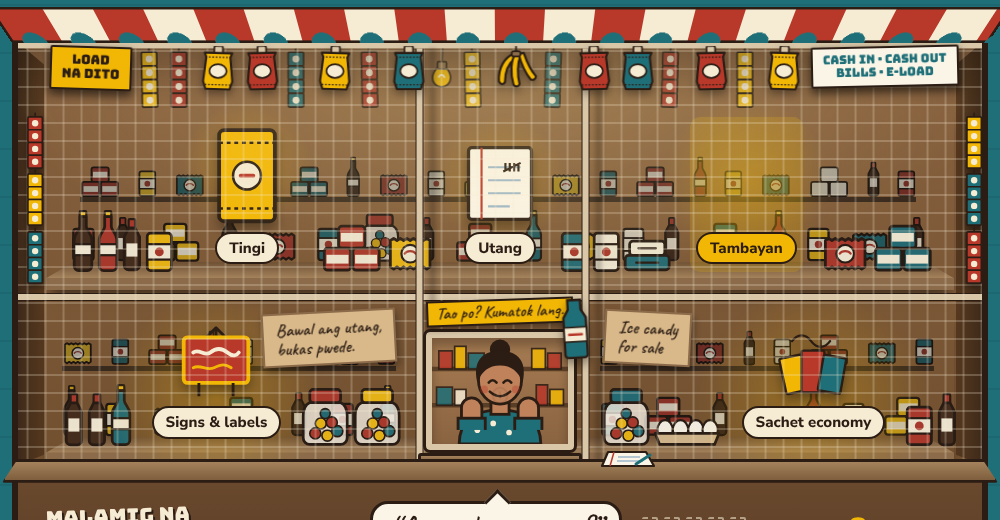
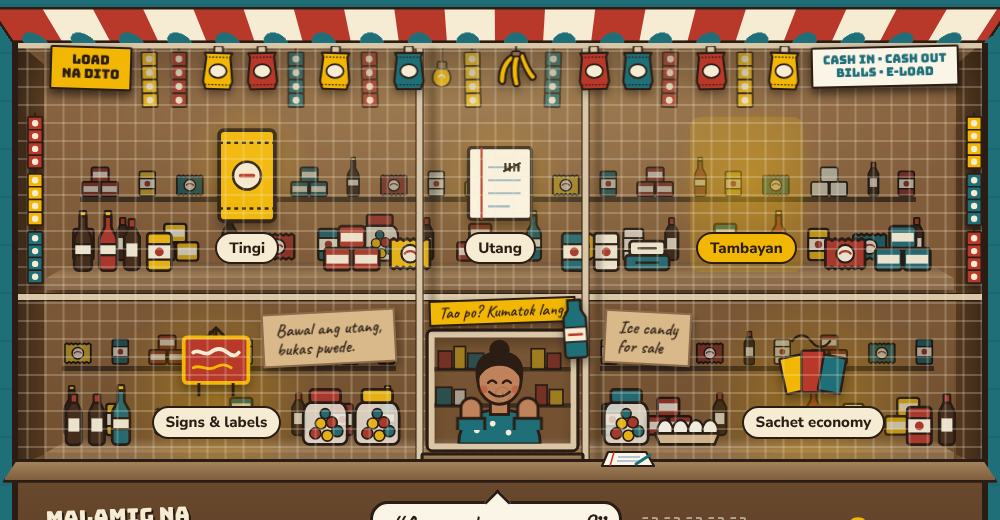
Make the window part of the store and reverse the purchase on close
- The pass-through window is now a real opening cut into the wire grid: it has no background of its own, so the store's back wall and light show through it
- Its frame moves with the grill as the pointer moves, while the tindera stays inside with the shelves, so you see past the frame instead of a flat picture
- Closing a story reverses the purchase: the page shrinks back into the window and the product travels from the tindera to its shelf, not from the corner of the story page
- Version tag on stylesheet and script links bumped

Changed region(s): [[0.403, 0.5538, 0.589, 0.8923]]

diff --git a/index.html b/index.html
@@ -8,8 +8,8 @@
 <link rel="preconnect" href="https://fonts.googleapis.com">
 <link rel="preconnect" href="https://fonts.gstatic.com" crossorigin>
 <link href="https://fonts.googleapis.com/css2?family=Bungee&family=Caveat:wght@600;700&family=Nunito+Sans:wght@400;600;700;800&display=swap" rel="stylesheet">
-<link rel="stylesheet" href="assets/css/style.css?v=202611152">
-<script src="assets/js/site.js?v=202611152"></script>
+<link rel="stylesheet" href="assets/css/style.css?v=202611153">
+<script src="assets/js/site.js?v=202611153"></script>
 <script>
   // First visit this session: keep the store shuttered until main.js lifts it.
   try {
@@ -241,22 +241,24 @@
         <div class="hatch" aria-hidden="true">
           <span class="hatch-note" lang="fil">Tao po? Kumatok lang.</span>
           <div class="hatch-hole">
-            <svg class="hatch-tindera" viewBox="0 0 120 96" width="120" height="96" aria-hidden="true">
-              <path d="M0 30h120M0 62h120" stroke="#5A3D25" stroke-width="4"/>
-              <g stroke="#2B1D14" stroke-width="1.5" opacity=".85"><rect x="6" y="14" width="12" height="16" fill="#B8382A"/><rect x="20" y="10" width="10" height="20" fill="#F2B705"/><rect x="32" y="16" width="14" height="14" fill="#1F6F78"/><rect x="88" y="12" width="12" height="18" fill="#F2B705"/><rect x="102" y="16" width="12" height="14" fill="#B8382A"/><rect x="4" y="46" width="14" height="16" fill="#1F6F78"/><rect x="20" y="48" width="10" height="14" fill="#F6EBD3"/><rect x="92" y="44" width="10" height="18" fill="#B8382A"/><rect x="104" y="48" width="12" height="14" fill="#F2B705"/></g>
-              <path d="M24 96c0-20 14-30 36-30s36 10 36 30z" fill="#1F6F78" stroke="#2B1D14" stroke-width="2.5" stroke-linejoin="round"/>
-              <g fill="#F6EBD3"><circle cx="40" cy="84" r="2.5"/><circle cx="54" cy="78" r="2.5"/><circle cx="68" cy="86" r="2.5"/><circle cx="80" cy="79" r="2.5"/></g>
-              <rect x="52" y="54" width="16" height="16" fill="#C0825A" stroke="#2B1D14" stroke-width="2.5"/>
-              <circle cx="60" cy="13" r="9" fill="#2B1D14"/>
-              <ellipse cx="60" cy="40" rx="19" ry="21" fill="#C0825A" stroke="#2B1D14" stroke-width="2.5"/>
-              <path d="M40 42c-5-22 8-28 20-28s25 6 20 28c-4-10-10-15-20-15s-16 5-20 15z" fill="#2B1D14"/>
-              <path d="M50 42q3.500-4 7 0M63 42q3.500-4 7 0M51 50q9 8 18 0" fill="none" stroke="#2B1D14" stroke-width="2.2" stroke-linecap="round"/>
-              <g fill="#B8382A" opacity=".35"><circle cx="46" cy="48" r="3.500"/><circle cx="74" cy="48" r="3.500"/></g>
-            </svg>
-            <svg class="hatch-hand" viewBox="0 0 120 34" width="120" height="34" aria-hidden="true">
-              <g fill="#C0825A" stroke="#2B1D14" stroke-width="2.5"><rect x="26" y="6" width="18" height="30" rx="9"/><rect x="76" y="6" width="18" height="30" rx="9"/></g>
-              <g fill="#1F6F78" stroke="#2B1D14" stroke-width="2.5"><rect x="23" y="24" width="24" height="12"/><rect x="73" y="24" width="24" height="12"/></g>
-            </svg>
+            <div class="hatch-inside">
+              <svg class="hatch-tindera" viewBox="0 0 120 96" width="120" height="96" aria-hidden="true">
+                <g class="tindera-back"><path d="M-20 30h160M-20 62h160" stroke="#5A3D25" stroke-width="4"/>
+                <g stroke="#2B1D14" stroke-width="1.5" opacity=".85"><rect x="6" y="14" width="12" height="16" fill="#B8382A"/><rect x="20" y="10" width="10" height="20" fill="#F2B705"/><rect x="32" y="16" width="14" height="14" fill="#1F6F78"/><rect x="88" y="12" width="12" height="18" fill="#F2B705"/><rect x="102" y="16" width="12" height="14" fill="#B8382A"/><rect x="4" y="46" width="14" height="16" fill="#1F6F78"/><rect x="20" y="48" width="10" height="14" fill="#F6EBD3"/><rect x="92" y="44" width="10" height="18" fill="#B8382A"/><rect x="104" y="48" width="12" height="14" fill="#F2B705"/></g></g>
+                <path d="M24 96c0-20 14-30 36-30s36 10 36 30z" fill="#1F6F78" stroke="#2B1D14" stroke-width="2.5" stroke-linejoin="round"/>
+                <g fill="#F6EBD3"><circle cx="40" cy="84" r="2.5"/><circle cx="54" cy="78" r="2.5"/><circle cx="68" cy="86" r="2.5"/><circle cx="80" cy="79" r="2.5"/></g>
+                <rect x="52" y="54" width="16" height="16" fill="#C0825A" stroke="#2B1D14" stroke-width="2.5"/>
+                <circle cx="60" cy="13" r="9" fill="#2B1D14"/>
+                <ellipse cx="60" cy="40" rx="19" ry="21" fill="#C0825A" stroke="#2B1D14" stroke-width="2.5"/>
+                <path d="M40 42c-5-22 8-28 20-28s25 6 20 28c-4-10-10-15-20-15s-16 5-20 15z" fill="#2B1D14"/>
+                <path d="M50 42q3.500-4 7 0M63 42q3.500-4 7 0M51 50q9 8 18 0" fill="none" stroke="#2B1D14" stroke-width="2.2" stroke-linecap="round"/>
+                <g fill="#B8382A" opacity=".35"><circle cx="46" cy="48" r="3.500"/><circle cx="74" cy="48" r="3.500"/></g>
+              </svg>
+              <svg class="hatch-hand" viewBox="0 0 120 34" width="120" height="34" aria-hidden="true">
+                <g fill="#C0825A" stroke="#2B1D14" stroke-width="2.5"><rect x="26" y="6" width="18" height="30" rx="9"/><rect x="76" y="6" width="18" height="30" rx="9"/></g>
+                <g fill="#1F6F78" stroke="#2B1D14" stroke-width="2.5"><rect x="23" y="24" width="24" height="12"/><rect x="73" y="24" width="24" height="12"/></g>
+              </svg>
+            </div>
             <span class="hatch-item"></span>
           </div>
           <span class="hatch-tray"></span>
@@ -351,6 +353,6 @@
   </form>
 </dialog>
 
-<script src="assets/js/main.js?v=202611152"></script>
+<script src="assets/js/main.js?v=202611153"></script>
 </body>
 </html>

diff --git a/assets/css/style.css b/assets/css/style.css
@@ -423,6 +423,11 @@ body::before {
     repeating-linear-gradient(90deg, transparent 0 16px, var(--wire) 16px 18px),
     repeating-linear-gradient(0deg, transparent 0 16px, var(--wire) 16px 18px);
   border-top: 6px solid var(--bar);
+  /* the pass-through window is a real hole in the grid */
+  -webkit-mask: linear-gradient(#000 0 0) center bottom 15px / calc(148px * var(--s)) calc(118px * var(--s)) no-repeat, linear-gradient(#000 0 0);
+  -webkit-mask-composite: xor;
+          mask: linear-gradient(#000 0 0) center bottom 15px / calc(148px * var(--s)) calc(118px * var(--s)) no-repeat, linear-gradient(#000 0 0);
+          mask-composite: exclude;
   translate: calc(var(--px, 0) * 5px) calc(var(--py, 0) * 2px);
   transition: translate 300ms var(--ease-out);
 }
@@ -470,15 +475,18 @@ body::before {
   align-self: end;
   width: calc(148px * var(--s));
   margin: 0 clamp(2px, 1.2vw, 14px) -18px;
+  /* the frame is part of the grill, so it moves with it */
+  translate: calc(var(--px, 0) * 5px) calc(var(--py, 0) * 2px);
+  transition: translate 300ms var(--ease-out);
 }
-/* inside you see the lit store and the tindera, not a dark hole */
+/* The opening has no background of its own: you look through it at the same
+   back wall, light and shelves as the rest of the store. */
 .hatch-hole {
   position: relative;
   height: calc(118px * var(--s));
-  background: linear-gradient(#A67C52, #8A6341);
   border: 6px solid var(--muted-light); border-radius: 4px;
   outline: 3px solid var(--kahoy);
-  box-shadow: inset 0 8px 10px rgba(43, 29, 20, 0.35);
+  box-shadow: inset 0 8px 10px rgba(43, 29, 20, 0.3);
   overflow: hidden;
 }
 .hatch-tray {
@@ -486,7 +494,16 @@ body::before {
   background: linear-gradient(#A3825C, #7E5E3D);
   border: 3px solid var(--kahoy); border-radius: 3px;
 }
-.hatch-tindera { position: absolute; left: 0; bottom: 0; display: block; width: 100%; height: auto; }
+/* The tindera stands inside the store, behind the grill: she stays put (like
+   the shelves) while the frame around her moves, so you see past it. */
+.hatch-inside {
+  position: absolute; inset: 0;
+  translate: calc(var(--px, 0) * -6px) calc(var(--py, 0) * -2.5px);
+  transition: translate 300ms var(--ease-out);
+}
+.hatch-tindera { position: absolute; left: 0; bottom: 0; display: block; width: 100%; height: auto; overflow: visible; }
+/* the shelf behind her is as dim as the other back rows */
+.tindera-back { filter: brightness(0.72) saturate(0.8); }
 /* her hands rest on the sill; they take the coin and hand the product out */
 .hatch-hand { position: absolute; left: 0; bottom: -4px; display: block; width: 100%; height: auto; }
 .hatch-item { position: absolute; left: 50%; bottom: 2px; width: 32%; translate: -50% 0; }
@@ -1261,6 +1278,12 @@ html.vt-hatch::view-transition-new(story-sheet):only-child {
   animation: sheet-from-hatch 460ms cubic-bezier(0.22, 1, 0.36, 1) both;
 }
 @keyframes sheet-from-hatch { from { opacity: 0.2; transform: scale(0.1); } }
+/* closing reverses it: the page shrinks back into the window */
+html.vt-hatch::view-transition-old(story-sheet):only-child {
+  transform-origin: var(--sheet-ox, 50%) var(--sheet-oy, 100%);
+  animation: sheet-to-hatch 320ms cubic-bezier(0.55, 0, 0.8, 0.4) both;
+}
+@keyframes sheet-to-hatch { to { opacity: 0; transform: scale(0.1); } }
 @keyframes sheet-out { to { opacity: 0; transform: translateY(18px) scale(0.98); } }
 
 /* ----- Turning to the next or previous story -----
@@ -1346,7 +1369,7 @@ html.vt-prev::view-transition-new(story-page) { animation: wipe-new-prev 440ms c
   @view-transition { navigation: none; }
   ::view-transition-group(*), ::view-transition-old(*), ::view-transition-new(*) { animation: none !important; }
   .shutter-run .shutter { display: none; }
-  .rehas, .hang, .shelf-back, .shelf-top, .side-strip { translate: none; transition: none; }
+  .rehas, .hang, .shelf-back, .shelf-top, .side-strip, .hatch, .hatch-inside { translate: none; transition: none; }
   .hang:hover, .member:hover { animation: none; }
   .product svg { transition: none; }
   .page-sign--hanging { animation: none; transform: rotate(-1deg); }

diff --git a/assets/js/main.js b/assets/js/main.js
@@ -318,6 +318,15 @@ function passThrough(id) {
   });
 }
 
+// Tells the CSS where the window is on the story page, so the page can grow
+// out of it and shrink back into it.
+function setSheetOrigin() {
+  const hole = hatchHole.getBoundingClientRect();
+  const sheet = dialog.getBoundingClientRect();
+  root.style.setProperty('--sheet-ox', hole.left + hole.width / 2 - sheet.left + 'px');
+  root.style.setProperty('--sheet-oy', hole.top + hole.height / 2 - sheet.top + 'px');
+}
+
 // Opens the story. `fromHatch` makes the page grow out of the window.
 function showStory(id, fromHatch) {
   const button = buttons.get(id);
@@ -327,10 +336,7 @@ function showStory(id, fromHatch) {
     fill(id);
     dialog.showModal();
     if (fromHatch) {
-      const hole = hatchHole.getBoundingClientRect();
-      const sheet = dialog.getBoundingClientRect();
-      root.style.setProperty('--sheet-ox', hole.left + hole.width / 2 - sheet.left + 'px');
-      root.style.setProperty('--sheet-oy', hole.top + hole.height / 2 - sheet.top + 'px');
+      setSheetOrigin();
       hatchSlot.replaceChildren();
       delete hatchSlot.dataset.story;
     }
@@ -369,10 +375,30 @@ function step(id, direction) {
 function close() {
   if (!dialog.open) return;
   const closing = current;
+  // The reverse of buying: the page goes back in through the window and the
+  // tindera puts the product back, so the drawing travels from her to its
+  // shelf (not from the corner of the story page).
+  const viaHatch = !reduceMotion.matches && Boolean(document.startViewTransition) && hatchInView();
+  if (viaHatch) {
+    setSheetOrigin();
+    hatchSlot.dataset.story = closing;
+    hatchSlot.replaceChildren(buttons.get(closing).querySelector('svg').cloneNode(true));
+    delete art.dataset.story; // the copy in the window travels; the one on the page leaves with the page
+    root.classList.add('vt-hatch');
+    hatchHand.animate(
+      [{ translate: '0 0' }, { translate: '0 -55%', offset: 0.4 }, { translate: '0 0' }],
+      { duration: 520, easing: 'ease-in-out' }
+    );
+  }
   transition('vt-close', () => {
     dialog.close();
+    hatchSlot.replaceChildren();
+    delete hatchSlot.dataset.story;
     buttons.forEach((button) => button.classList.remove('is-lifted', 'is-away'));
-  }, closing).then(() => celebrate(closing));
+  }, closing).then(() => {
+    root.classList.remove('vt-hatch');
+    celebrate(closing);
+  });
 }
 
 buttons.forEach((button, id) => {

diff --git a/kwento/sachet.html b/kwento/sachet.html
@@ -8,8 +8,8 @@
 <link rel="preconnect" href="https://fonts.googleapis.com">
 <link rel="preconnect" href="https://fonts.gstatic.com" crossorigin>
 <link href="https://fonts.googleapis.com/css2?family=Bungee&family=Caveat:wght@600;700&family=Nunito+Sans:wght@400;600;700;800&display=swap" rel="stylesheet">
-<link rel="stylesheet" href="../assets/css/style.css?v=202611152">
-<script src="../assets/js/site.js?v=202611152"></script>
+<link rel="stylesheet" href="../assets/css/style.css?v=202611153">
+<script src="../assets/js/site.js?v=202611153"></script>
 </head>
 <body>
 <a class="skip-link" href="#main">Skip to content</a>
@@ -92,6 +92,6 @@
   <p><strong>Tingi</strong> · Digital Interface Design Project</p>
   <p>Ethan Vicmudo · Michael Delos Reyes · Aezekiel Quirol · Elijah Penilla · Rolf Gantala</p>
 </footer>
-<script src="../assets/js/kwento.js?v=202611152"></script>
+<script src="../assets/js/kwento.js?v=202611153"></script>
 </body>
 </html>

diff --git a/kwento/signs.html b/kwento/signs.html
@@ -8,8 +8,8 @@
 <link rel="preconnect" href="https://fonts.googleapis.com">
 <link rel="preconnect" href="https://fonts.gstatic.com" crossorigin>
 <link href="https://fonts.googleapis.com/css2?family=Bungee&family=Caveat:wght@600;700&family=Nunito+Sans:wght@400;600;700;800&display=swap" rel="stylesheet">
-<link rel="stylesheet" href="../assets/css/style.css?v=202611152">
-<script src="../assets/js/site.js?v=202611152"></script>
+<link rel="stylesheet" href="../assets/css/style.css?v=202611153">
+<script src="../assets/js/site.js?v=202611153"></script>
 </head>
 <body>
 <a class="skip-link" href="#main">Skip to content</a>
@@ -89,6 +89,6 @@
   <p><strong>Tingi</strong> · Digital Interface Design Project</p>
   <p>Ethan Vicmudo · Michael Delos Reyes · Aezekiel Quirol · Elijah Penilla · Rolf Gantala</p>
 </footer>
-<script src="../assets/js/kwento.js?v=202611152"></script>
+<script src="../assets/js/kwento.js?v=202611153"></script>
 </body>
 </html>

diff --git a/kwento/tambayan.html b/kwento/tambayan.html
@@ -8,8 +8,8 @@
 <link rel="preconnect" href="https://fonts.googleapis.com">
 <link rel="preconnect" href="https://fonts.gstatic.com" crossorigin>
 <link href="https://fonts.googleapis.com/css2?family=Bungee&family=Caveat:wght@600;700&family=Nunito+Sans:wght@400;600;700;800&display=swap" rel="stylesheet">
-<link rel="stylesheet" href="../assets/css/style.css?v=202611152">
-<script src="../assets/js/site.js?v=202611152"></script>
+<link rel="stylesheet" href="../assets/css/style.css?v=202611153">
+<script src="../assets/js/site.js?v=202611153"></script>
 </head>
 <body>
 <a class="skip-link" href="#main">Skip to content</a>
@@ -88,6 +88,6 @@
   <p><strong>Tingi</strong> · Digital Interface Design Project</p>
   <p>Ethan Vicmudo · Michael Delos Reyes · Aezekiel Quirol · Elijah Penilla · Rolf Gantala</p>
 </footer>
-<script src="../assets/js/kwento.js?v=202611152"></script>
+<script src="../assets/js/kwento.js?v=202611153"></script>
 </body>
 </html>

diff --git a/kwento/tingi.html b/kwento/tingi.html
@@ -8,8 +8,8 @@
 <link rel="preconnect" href="https://fonts.googleapis.com">
 <link rel="preconnect" href="https://fonts.gstatic.com" crossorigin>
 <link href="https://fonts.googleapis.com/css2?family=Bungee&family=Caveat:wght@600;700&family=Nunito+Sans:wght@400;600;700;800&display=swap" rel="stylesheet">
-<link rel="stylesheet" href="../assets/css/style.css?v=202611152">
-<script src="../assets/js/site.js?v=202611152"></script>
+<link rel="stylesheet" href="../assets/css/style.css?v=202611153">
+<script src="../assets/js/site.js?v=202611153"></script>
 </head>
 <body>
 <a class="skip-link" href="#main">Skip to content</a>
@@ -88,6 +88,6 @@
   <p><strong>Tingi</strong> · Digital Interface Design Project</p>
   <p>Ethan Vicmudo · Michael Delos Reyes · Aezekiel Quirol · Elijah Penilla · Rolf Gantala</p>
 </footer>
-<script src="../assets/js/kwento.js?v=202611152"></script>
+<script src="../assets/js/kwento.js?v=202611153"></script>
 </body>
 </html>

diff --git a/kwento/utang.html b/kwento/utang.html
@@ -8,8 +8,8 @@
 <link rel="preconnect" href="https://fonts.googleapis.com">
 <link rel="preconnect" href="https://fonts.gstatic.com" crossorigin>
 <link href="https://fonts.googleapis.com/css2?family=Bungee&family=Caveat:wght@600;700&family=Nunito+Sans:wght@400;600;700;800&display=swap" rel="stylesheet">
-<link rel="stylesheet" href="../assets/css/style.css?v=202611152">
-<script src="../assets/js/site.js?v=202611152"></script>
+<link rel="stylesheet" href="../assets/css/style.css?v=202611153">
+<script src="../assets/js/site.js?v=202611153"></script>
 </head>
 <body>
 <a class="skip-link" href="#main">Skip to content</a>
@@ -89,6 +89,6 @@
   <p><strong>Tingi</strong> · Digital Interface Design Project</p>
   <p>Ethan Vicmudo · Michael Delos Reyes · Aezekiel Quirol · Elijah Penilla · Rolf Gantala</p>
 </footer>
-<script src="../assets/js/kwento.js?v=202611152"></script>
+<script src="../assets/js/kwento.js?v=202611153"></script>
 </body>
 </html>

diff --git a/paninda.html b/paninda.html
@@ -8,8 +8,8 @@
 <link rel="preconnect" href="https://fonts.googleapis.com">
 <link rel="preconnect" href="https://fonts.gstatic.com" crossorigin>
 <link href="https://fonts.googleapis.com/css2?family=Bungee&family=Caveat:wght@600;700&family=Nunito+Sans:wght@400;600;700;800&display=swap" rel="stylesheet">
-<link rel="stylesheet" href="assets/css/style.css?v=202611152">
-<script src="assets/js/site.js?v=202611152"></script>
+<link rel="stylesheet" href="assets/css/style.css?v=202611153">
+<script src="assets/js/site.js?v=202611153"></script>
 </head>
 <body>
 <a class="skip-link" href="#main">Skip to content</a>
@@ -140,6 +140,6 @@
   <p><strong>Tingi</strong> · Digital Interface Design Project</p>
   <p>Ethan Vicmudo · Michael Delos Reyes · Aezekiel Quirol · Elijah Penilla · Rolf Gantala</p>
 </footer>
-<script src="assets/js/paninda.js?v=202611152"></script>
+<script src="assets/js/paninda.js?v=202611153"></script>
 </body>
 </html>

diff --git a/pabili.html b/pabili.html
@@ -8,8 +8,8 @@
 <link rel="preconnect" href="https://fonts.googleapis.com">
 <link rel="preconnect" href="https://fonts.gstatic.com" crossorigin>
 <link href="https://fonts.googleapis.com/css2?family=Bungee&family=Caveat:wght@600;700&family=Nunito+Sans:wght@400;600;700;800&display=swap" rel="stylesheet">
-<link rel="stylesheet" href="assets/css/style.css?v=202611152">
-<script src="assets/js/site.js?v=202611152"></script>
+<link rel="stylesheet" href="assets/css/style.css?v=202611153">
+<script src="assets/js/site.js?v=202611153"></script>
 </head>
 <body>
 <a class="skip-link" href="#main">Skip to content</a>
@@ -95,6 +95,6 @@
   <p>Ethan Vicmudo · Michael Delos Reyes · Aezekiel Quirol · Elijah Penilla · Rolf Gantala</p>
 </footer>
 
-<script src="assets/js/pabili.js?v=202611152"></script>
+<script src="assets/js/pabili.js?v=202611153"></script>
 </body>
 </html>

diff --git a/404.html b/404.html
@@ -15,10 +15,10 @@
       base.href = root[0];
       document.head.appendChild(base);
     }
-    document.write('<link rel="stylesheet" href="assets/css/style.css?v=202611152"><script src="assets/js/site.js?v=202611152"><\/script>');
+    document.write('<link rel="stylesheet" href="assets/css/style.css?v=202611153"><script src="assets/js/site.js?v=202611153"><\/script>');
   })();
 </script>
-<noscript><link rel="stylesheet" href="assets/css/style.css?v=202611152"></noscript>
+<noscript><link rel="stylesheet" href="assets/css/style.css?v=202611153"></noscript>
 <link rel="preconnect" href="https://fonts.googleapis.com">
 <link rel="preconnect" href="https://fonts.gstatic.com" crossorigin>
 <link href="https://fonts.googleapis.com/css2?family=Bungee&family=Caveat:wght@600;700&family=Nunito+Sans:wght@400;600;700;800&display=swap" rel="stylesheet">

diff --git a/tungkol.html b/tungkol.html
@@ -8,8 +8,8 @@
 <link rel="preconnect" href="https://fonts.googleapis.com">
 <link rel="preconnect" href="https://fonts.gstatic.com" crossorigin>
 <link href="https://fonts.googleapis.com/css2?family=Bungee&family=Caveat:wght@600;700&family=Nunito+Sans:wght@400;600;700;800&display=swap" rel="stylesheet">
-<link rel="stylesheet" href="assets/css/style.css?v=202611152">
-<script src="assets/js/site.js?v=202611152"></script>
+<link rel="stylesheet" href="assets/css/style.css?v=202611153">
+<script src="assets/js/site.js?v=202611153"></script>
 </head>
 <body>
 <a class="skip-link" href="#main">Skip to content</a>
